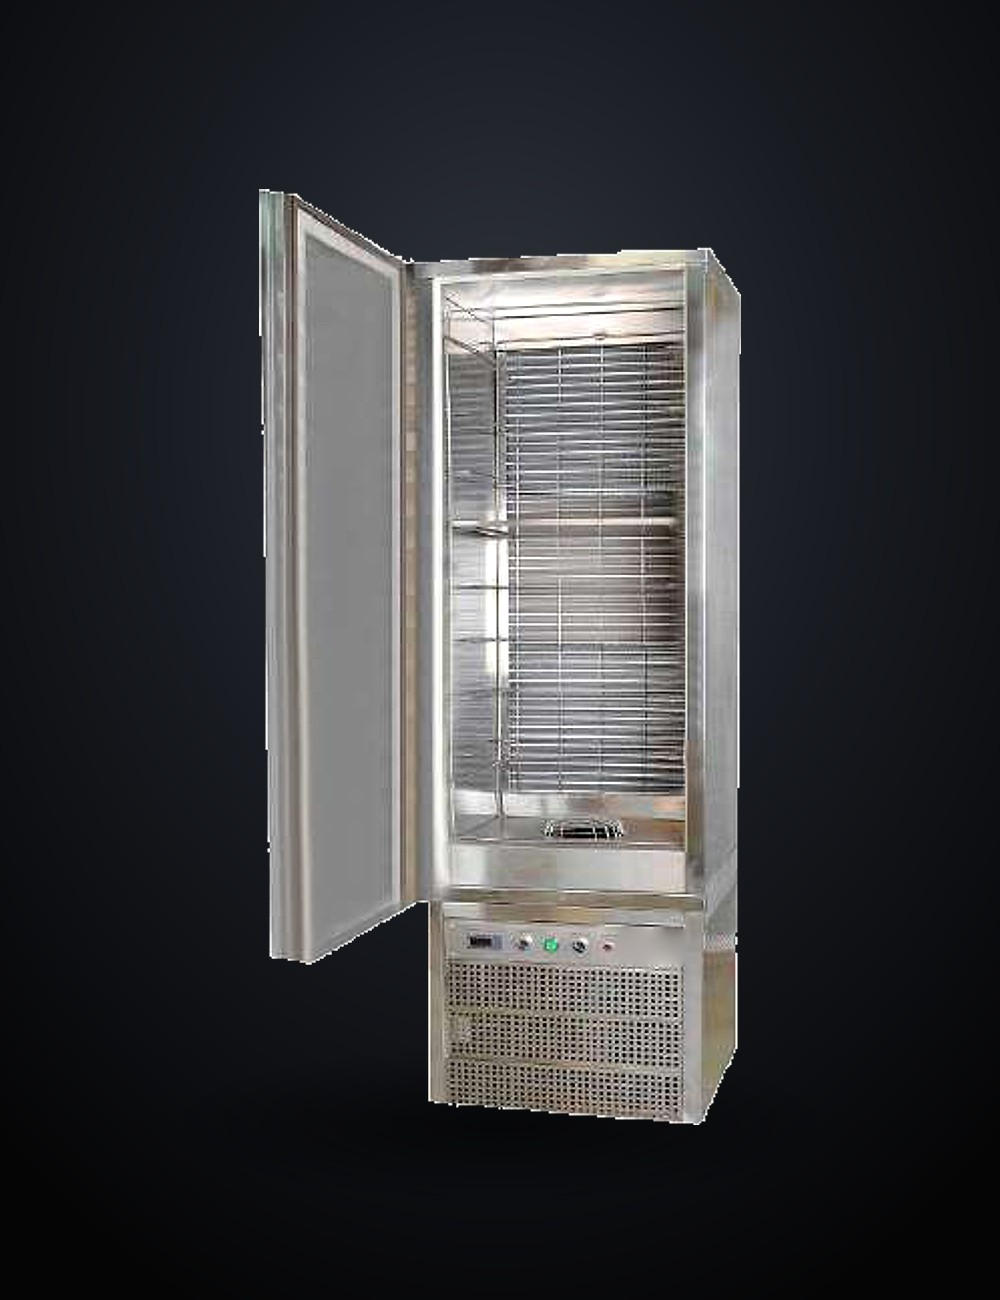
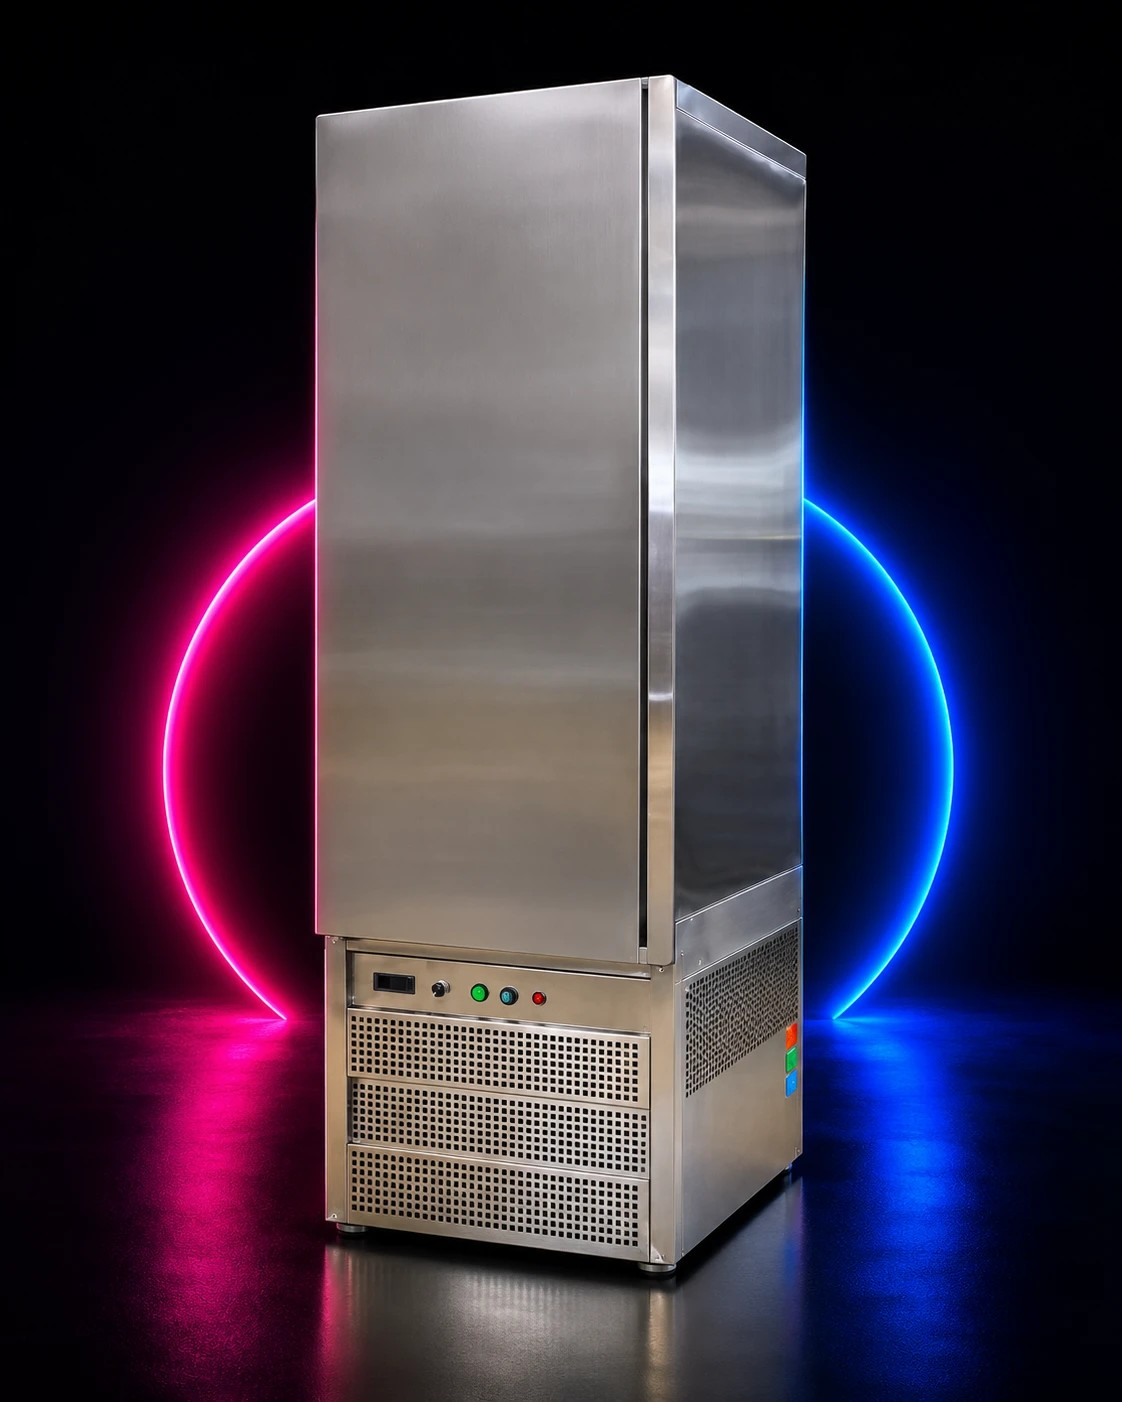
Put the Abatidores and Pozos cards in the same grid as the other brands (drop the separate 'Equipos de frío' block), and swap in Santiago's new neon-studio photos. Abatidor para estantes gets both the closed and the open-door shot, so product pages now show a thumbnail strip when a product has more 

diff --git a/index.html b/index.html
@@ -483,7 +483,6 @@
   /* líneas sin marca: el nombre del equipo ocupa el lugar del logo */
   .brand-logo-text{display:flex;align-items:center;min-height:30px;font-family:'Space Grotesk',sans-serif;font-weight:700;font-size:1.45rem;letter-spacing:-.01em;color:var(--plata-1);opacity:.92;transition:color .35s var(--ease), opacity .35s var(--ease);}
   .brand-card:hover .brand-logo-text{color:#7FC4F5;opacity:1;}
-  .brands-sub{margin-top:84px;}
   .brand-card p{color:var(--muted);font-size:.92rem;line-height:1.55;margin-bottom:18px;}
   .brand-card .tags{display:flex;gap:8px;flex-wrap:wrap;}
   .brand-card .tags span{font-family:'IBM Plex Mono';font-size:.72rem;color:var(--muted-2);border:1px solid var(--line);padding:4px 10px;border-radius:100px;}
@@ -1281,29 +1280,20 @@
           <div class="tags"><span>Homogeneizadores</span></div>
           <div class="arrow">Ver catálogo →</div>
         </div>
-      </div>
-
-      <div class="brands-sub">
-        <div class="sec-head" data-reveal>
-          <span class="kicker">Equipos de frío</span>
-          <h2>Abatidores y pozos para tu heladería.</h2>
-          <p>Completá tu producción con equipos de frío. Consultá precio y disponibilidad.</p>
+        <!-- sin logo todavía: el nombre del equipo ocupa su lugar (.brand-logo-text) -->
+        <div class="brand-card" data-reveal data-marca="abatidores" role="button" tabindex="0">
+          <div class="glow" style="background:var(--frio-1)"></div>
+          <div class="brand-logo brand-logo-text">Abatidores de frío</div>
+          <p>Abatidores para estantes, para carros y de paso continuo, para enfriar rápido tu producción.</p>
+          <div class="tags"><span>Frío rápido</span><span>3 modelos</span></div>
+          <div class="arrow">Ver catálogo →</div>
         </div>
-        <div class="brands-grid">
-          <div class="brand-card" data-reveal data-marca="abatidores" role="button" tabindex="0">
-            <div class="glow" style="background:var(--frio-1)"></div>
-            <div class="brand-logo brand-logo-text">Abatidores de frío</div>
-            <p>Abatidores para estantes, para carros y de paso continuo, para enfriar rápido tu producción.</p>
-            <div class="tags"><span>Frío rápido</span><span>3 modelos</span></div>
-            <div class="arrow">Ver modelos →</div>
-          </div>
-          <div class="brand-card" data-reveal data-marca="pozos" role="button" tabindex="0">
-            <div class="glow" style="background:var(--calor-2)"></div>
-            <div class="brand-logo brand-logo-text">Pozos de frío</div>
-            <p>Conservadoras de helado a baño de glicol, de 6 a 14 bocas, también a medida.</p>
-            <div class="tags"><span>Baño de glicol</span><span>6 a 14 bocas</span></div>
-            <div class="arrow">Ver modelos →</div>
-          </div>
+        <div class="brand-card" data-reveal data-marca="pozos" role="button" tabindex="0">
+          <div class="glow" style="background:var(--calor-2)"></div>
+          <div class="brand-logo brand-logo-text">Pozos de frío</div>
+          <p>Conservadoras de helado a baño de glicol, de 6 a 14 bocas, también a medida.</p>
+          <div class="tags"><span>Baño de glicol</span><span>6 a 14 bocas</span></div>
+          <div class="arrow">Ver catálogo →</div>
         </div>
       </div>
     </div>
@@ -3989,6 +3979,7 @@
     {id:'abatidor-estantes', marca:'abatidores', cat:'abatidores', catLabel:'Abatidor para estantes',
       titulo:'Abatidor de frío para estantes', subtitulo:'Abatidor de temperatura con estantes para bandejas GN 2/1: baja rápido la temperatura de tu producción para conservarla en condiciones.',
       img: 'assets/img/nuevas-ia/abatidor-estantes.jpg',
+      imgs: ['assets/img/nuevas-ia/abatidor-estantes.jpg','assets/img/nuevas-ia/abatidor-estantes-abierto.jpg'],
       g:['#38BDF8','#0C3FA0'],
       specs:[['Capacidad','12 bandejas GN 2/1 (530 × 650 mm)'],['Potencia frigorífica','3 HP'],['Dimensiones exteriores','Frente 850 × largo 800 × alto 2.000 mm'],['Alto útil','1.250 mm']]},
     {id:'abatidor-carros', marca:'abatidores', cat:'abatidores', catLabel:'Abatidor para carros',
@@ -4383,6 +4374,20 @@
     thumbs.innerHTML = '';
     var thumbsWrap = document.querySelector('.pf-thumbs');
     if (thumbsWrap) thumbsWrap.style.display = 'none';
+    if (p.img && p.imgs && p.imgs.length > 1){
+      thumbsWrap.style.display = '';
+      p.imgs.forEach(function(u, i){
+        var t = document.createElement('div');
+        t.className = 'pf-thumb' + (i === 0 ? ' is-active' : '');
+        t.style.backgroundImage = 'url(' + u + ')';
+        t.onclick = function(){
+          main.style.backgroundImage = 'url(' + u + ')';
+          Array.prototype.forEach.call(thumbs.children, function(c){ c.classList.remove('is-active'); });
+          t.classList.add('is-active');
+        };
+        thumbs.appendChild(t);
+      });
+    }
 
     document.getElementById('pfSpecsGrid').innerHTML = p.specs.map(function(s){
       return '<div class="pf-spec-item"><span>'+s[0]+'</span><strong>'+s[1]+'</strong></div>';
